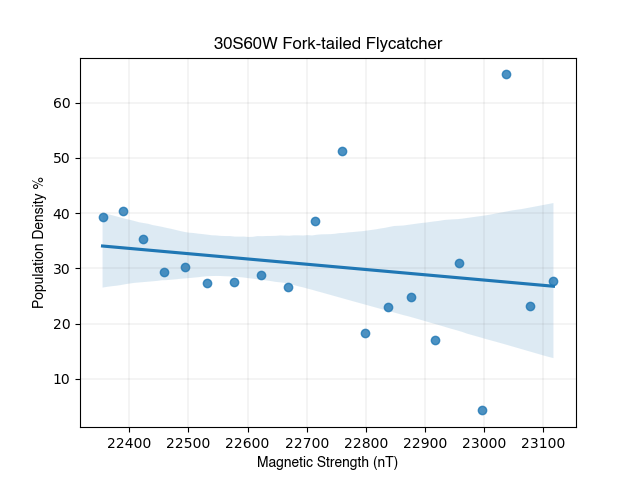
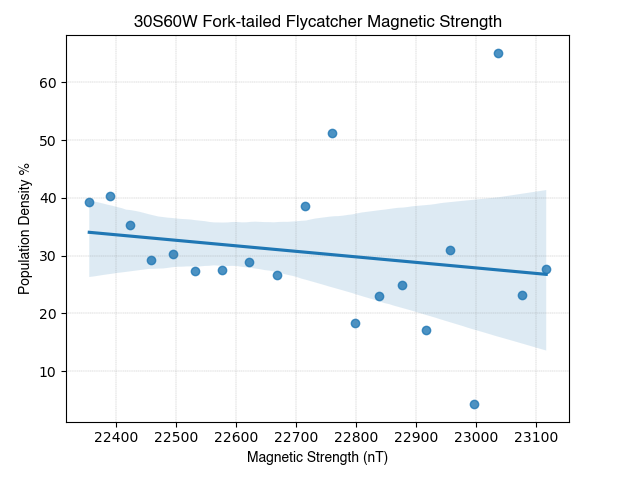
reVAMP INCOMING - DOUBLEYAXISPLOTS
COMPLETE DESIGN OF DOUBLE Y AXIS PLOTS. SWITCHING FROM PYGMT TO GRAPH TO MATPLOTLIB AS THE GRAPHS GENERALLY LOOK NICER AND JUST MAKE THAT MUCH OF A DIFFERENCE. MORE UPDATES ARE COMING - ADDITIONAL DATA ANALYSIS WAS COMPLETED IN RESPECTS TO ANALYSIS OF ONE STATION'S DATA COMPARED TO MIGRATORY DATA IN ADDITION TO THE GRAPHING OF POPULATION DENSITIES AT A MONTH TO MONTH BASIS. MORE COMING SOON.

diff --git a/sorting.py b/sorting.py
@@ -52,6 +52,36 @@ print(yearlyPrcps)
 
 
 
+def doubleYAxisPlotMaker(yearMin, yearMax, data1, data2, title, dataLabel1, dataLabel2, filename, color1, color2):
+    t = np.arange(yearMin,yearMax, 1)
+    fig, ax1 = plt.subplots()
+
+    ax1.set_xlabel('Year')
+    ax1.set_ylabel(dataLabel1, color = color1)
+    #5R Analysis of American Golden-Plover 30S60W from 2000-2020
+    ax1.set_title(title)
+    ln1 = ax1.plot(t, data1, color= color1, label = dataLabel1)
+    ax1.tick_params(axis='y', labelcolor = color1)
+    ax1.grid(color = 'grey', linestyle = "--")
+    # ax1.legend(loc="upper right")
+
+    ax2 = ax1.twinx()  # instantiate a second axes that shares the same x-axis
+
+    ax2.set_ylabel(dataLabel2, color = color2)  # we already handled the x-label with ax1
+    ln2 = ax2.plot(t, data2, color = color2, label = dataLabel2)
+    ax2.tick_params(axis='y', labelcolor = color2)
+    # ax2.legend(loc="upper right", bbox_to_anchor=(1, 0.90))
+
+    #GOD TIER LEGEND HELPER GOD BLESS
+    lns = ln1+ln2
+    labs = [l.get_label() for l in lns]
+    ax1.legend(lns, labs, loc="upper right")
+
+    fig.tight_layout()  # otherwise the right y-label is slightly clipped
+    fig.savefig(filename)
+    print(filename + " successfully uploaded.")
+
+
 # climateDataGen = climateDataGen.loc['STATION', 'LATITUDE', 'LONGITUDE', 'DATE', 'PRCP', 'TAVG', 'TMAX', 'TMIN']
 # climateDataGen = climateDataGen.query('STATION == PA000086086 & TMIN != null & TMAX != null')
 
@@ -179,15 +209,15 @@ print(matplotlib.get_cachedir())
 
 #correlation tests
 #these are the dataframes needed for the all birds correlation
-def scatterPlot(mag, per, title, file):
+def scatterPlot(mag, per, title, file, xlabel):
     font = {'fontname':'Helvetica', 'style':'italic'}
     plt.clf()
     sb.regplot(mag, per, 'o')
     plt.title(title, **font)
-    plt.xlabel("Magnetic Strength (nT)", **font)
+    plt.xlabel(xlabel, **font)
     plt.ylabel("Population Density %", **font)
-    plt.grid(color='grey', linestyle='-', linewidth=0.25, alpha=0.5)
-    plt.text(0.1, 0.9, 'text', size=15, color='purple')
+    plt.grid(color='grey', linestyle = "--", linewidth=0.25, alpha=0.75)
+    #plt.text(0.1, 0.9, 'text', size=15, color='purple')
     # m, b = np.polyfit(mag, per, 1)
     # plt.plot(mag, m(mag) + b)
 
@@ -248,16 +278,26 @@ smallCountHPercentages = (smallCountH['countS'].copy() / largeCountH['countS'].c
 allBirdPercentages = smallCountPercentages.multiply(0.25) + smallCountWPercentages.multiply(0.25) + smallCountPPercentages.multiply(0.25) + smallCountHPercentages.multiply(0.25)
 
 print("> Magnetic 30S60W All Birds: " + "r value = " + str(stats.pearsonr(magStrength3060S,allBirdPercentages)[0]) + "; p value = " + str(stats.pearsonr(magStrength3060S, allBirdPercentages)[1]))
-print("> Climate 30S60W All Birds: " + "r value = " + str(stats.pearsonr(climate3060S,allBirdPercentages)[0]) + "; p value = " + str(stats.pearsonr(climate3060S, allBirdPercentages)[1]))
+print("> Temperature 30S60W All Birds: " + "r value = " + str(stats.pearsonr(climate3060S,allBirdPercentages)[0]) + "; p value = " + str(stats.pearsonr(climate3060S, allBirdPercentages)[1]))
 print("> Precipitation 30S60W All Birds: " + "r value = " + str(stats.pearsonr(prcp3060S,allBirdPercentages)[0]) + "; p value = " + str(stats.pearsonr(prcp3060S, allBirdPercentages)[1]))
 
 # fvalue, pvalue = stats.f_oneway(climate3060S, prcp3060S, allBirdPercentages)
 # fvalue2, pvalue2 = stats.f_oneway(magStrength3060S, allBirdPercentages)
+l1 = [1,2,4,8,16,32,64]
+l2 = [1000,2000,4000,8000,16000,32000,64000]
+f, p = stats.f_oneway(l1,l2)
+print(str(f) + " and " + str(p))
 
 # print(str(fvalue) + " and " + str(pvalue))
 # print(str(fvalue2) + " and " + str(pvalue2))
 
-scatterPlot(magStrength3060S, allBirdPercentages, "30S60W All Birds", "30S60WAbBird.png")
+scatterPlot(magStrength3060S, allBirdPercentages, "30S60W All Birds Magnetic Strength", "30S60WAbBird.png", "Magnetic Strength (nT)")
+doubleYAxisPlotMaker(2000,2020, magStrength3060S, allBirdPercentages, "5R Analysis of All Birds 30S60W from 2000-2020(M)", "Magnetic Strength (nT)", "Population Density %", "DOUBLEAXIS_AbBird30S60W_M.png", "tab:red", "tab:blue")
+#(yearMin, yearMax, data1, data2, title, dataLabel1, dataLabel2, filename, color1, color2):
+#5R Analysis of American Golden-Plover 30S60W from 2000-2020
+
+
+
 # a, b = np.polyfit(magStrength3060S, allBirdPercentages, deg = 1)
 # aBest = a * magStrength3060S + allBirdPercentages
 # aBerr = magStrength3060S.std() * np.sqrt(1/len(magStrength3060S) + (magStrength3060S - magStrength3060S.mean())**2 / np.sum((magStrength3060S - magStrength3060S.mean())**2))
@@ -274,11 +314,17 @@ percentagesPlover3060S = []
 for x in range(len(ploverSmallList3060S)):
     percentagesPlover3060S.append((ploverSmallList3060S[x]/ploverLargeList3060S[x]) * 100)
 print("> Magnetic 30S60W American Golden-Plover: " + "r value = " + str(stats.pearsonr(magStrength3060S,percentagesPlover3060S)[0]) + "; p value = " + str(stats.pearsonr(magStrength3060S, percentagesPlover3060S)[1]))
-print("> Climate 30S60W American Golden-Plover: " + "r value = " + str(stats.pearsonr(climate3060S,percentagesPlover3060S)[0]) + "; p value = " + str(stats.pearsonr(climate3060S, percentagesPlover3060S)[1]))
+print("> Temperature 30S60W American Golden-Plover: " + "r value = " + str(stats.pearsonr(climate3060S,percentagesPlover3060S)[0]) + "; p value = " + str(stats.pearsonr(climate3060S, percentagesPlover3060S)[1]))
+print("> Precipitation 30S60W American Golden-Plover: " + "r value = " + str(stats.pearsonr(prcp3060S,percentagesPlover3060S)[0]) + "; p value = " + str(stats.pearsonr(prcp3060S, percentagesPlover3060S)[1]))
 
+scatterPlot(climate3060S, percentagesPlover3060S, "30S60W American Golden-Plover Temperature", "30S60WAgBird_T.png", "Temperature (F)")
+doubleYAxisPlotMaker(2000,2020, climate3060S, percentagesPlover3060S, "5R Analysis of American Golden-Plover 30S60W from 2000-2020(T)", "Temperature (F)", "Population Density %", "DOUBLEAXIS_AgBird30S60W_T.png", "tab:red", "tab:blue")
 
-#scatterPlot(climate3060S, percentagesPlover3060S, "30S60W American Golden-Plover", "CLM30S60WAgBird.png")
-scatterPlot(magStrength3060S, percentagesPlover3060S, "30S60W American Golden-Plover", "30S60WAgBird.png")
+scatterPlot(magStrength3060S, percentagesPlover3060S, "30S60W American Golden-Plover Magnetic Strength", "30S60WAgBird.png", "Magnetic Strength (nT)")
+doubleYAxisPlotMaker(2000,2020, magStrength3060S, percentagesPlover3060S, "5R Analysis of American Golden-Plover 30S60W from 2000-2020(M)", "Magnetic Strength (nT)", "Population Density %", "DOUBLEAXIS_AgBird30S60W_M.png", "tab:red", "tab:blue")
+
+scatterPlot(prcp3060S, percentagesPlover3060S, "30S60W American Golden-Plover Precipitation", "30S60WAgBird_P.png", "Precipitation (in)")
+doubleYAxisPlotMaker(2000,2020, prcp3060S, percentagesPlover3060S, "5R Analysis of American Golden-Plover 30S60W from 2000-2020(P)", "Precipitation (in)", "Population Density %", "DOUBLEAXIS_AgBird30S60W_P.png", "tab:red", "tab:blue")
 
 #White-rumped Sandpiper South America
 whiteSmallList3060S = smallCountW.copy()['countS'].values.tolist()
@@ -286,9 +332,18 @@ whiteLargeList3060S = largeCountW.copy()['countS'].values.tolist()
 percentagesWhite3060S = []
 for x in range(len(whiteSmallList3060S)):
     percentagesWhite3060S.append((whiteSmallList3060S[x]/whiteLargeList3060S[x]) * 100)
-print("> 30S60W White-rumped Sandpiper: " + "r value = " + str(stats.pearsonr(magStrength3060S,percentagesWhite3060S)[0]) + "; p value = " + str(stats.pearsonr(magStrength3060S, percentagesWhite3060S)[1]))
-print("> 30S60W White-rumped Sandpiper: " + "r value = " + str(stats.pearsonr(climate3060S,percentagesWhite3060S)[0]) + "; p value = " + str(stats.pearsonr(climate3060S, percentagesWhite3060S)[1]))
-scatterPlot(magStrength3060S, percentagesWhite3060S, "30S60W White-rumped Sandpiper", "30S60WWrBird.png")
+print("> Magnetic 30S60W White-rumped Sandpiper: " + "r value = " + str(stats.pearsonr(magStrength3060S,percentagesWhite3060S)[0]) + "; p value = " + str(stats.pearsonr(magStrength3060S, percentagesWhite3060S)[1]))
+print("> Temperature 30S60W White-rumped Sandpiper: " + "r value = " + str(stats.pearsonr(climate3060S,percentagesWhite3060S)[0]) + "; p value = " + str(stats.pearsonr(climate3060S, percentagesWhite3060S)[1]))
+print("> Precipitation 30S60W White-rumped Sandpiper: " + "r value = " + str(stats.pearsonr(prcp3060S,percentagesWhite3060S)[0]) + "; p value = " + str(stats.pearsonr(prcp3060S, percentagesWhite3060S)[1]))
+scatterPlot(magStrength3060S, percentagesWhite3060S, "30S60W White-rumped Sandpiper Magnetic Strength", "30S60WWrBird.png", "Magnetic Strength (nT)")
+doubleYAxisPlotMaker(2000,2020, magStrength3060S, percentagesWhite3060S, "5R Analysis of White-rumped Sandpiper 30S60W from 2000-2020(M)", "Magnetic Strength (nT)", "Population Density %", "DOUBLEAXIS_WrBird30S60W_M.png", "tab:red", "tab:blue")
+
+scatterPlot(climate3060S, percentagesWhite3060S, "30S60W White-rumped Sandpiper Temperature", "30S60WWrBird_T.png", "Temperature (F)")
+doubleYAxisPlotMaker(2000,2020, climate3060S, percentagesWhite3060S, "5R Analysis of White-rumped Sandpiper 30S60W from 2000-2020(T)", "Temperature (F)", "Population Density %", "DOUBLEAXIS_WrBird30S60W_T.png", "tab:red", "tab:blue")
+
+scatterPlot(prcp3060S, percentagesWhite3060S, "30S60W White-rumped Sandpiper Precipitation", "30S60WWrBird_P.png", "Precipitation (in)")
+doubleYAxisPlotMaker(2000,2020, prcp3060S, percentagesWhite3060S, "5R Analysis of White-rumped Sandpiper 30S60W from 2000-2020(P)", "Precipitation (in)", "Population Density %", "DOUBLEAXIS_WrBird30S60W_P.png", "tab:red", "tab:blue")
+
 
 #Pectoral Sandpiper South America
 pectoralSmallList3060S = smallCountP.copy()['countS'].values.tolist()
@@ -296,9 +351,20 @@ pectoralLargeList3060S = largeCountP.copy()['countS'].values.tolist()
 percentagesPectoral3060S = []
 for x in range(len(pectoralSmallList3060S)):
     percentagesPectoral3060S.append((pectoralSmallList3060S[x]/pectoralLargeList3060S[x]) * 100)
-print("> 30S60W Pectoral Sandpiper: " + "r value = " + str(stats.pearsonr(magStrength3060S,percentagesPectoral3060S)[0]) + "; p value = " + str(stats.pearsonr(magStrength3060S, percentagesPectoral3060S)[1]))
-print("> 30S60W Pectoral Sandpiper: " + "r value = " + str(stats.pearsonr(climate3060S,percentagesPectoral3060S)[0]) + "; p value = " + str(stats.pearsonr(climate3060S, percentagesPectoral3060S)[1]))
-scatterPlot(magStrength3060S, percentagesPectoral3060S, "30S60W Pectoral Sandpiper", "30S60WPsBird.png")
+print("> Magnetic 30S60W Pectoral Sandpiper: " + "r value = " + str(stats.pearsonr(magStrength3060S,percentagesPectoral3060S)[0]) + "; p value = " + str(stats.pearsonr(magStrength3060S, percentagesPectoral3060S)[1]))
+print("> Temperature 30S60W Pectoral Sandpiper: " + "r value = " + str(stats.pearsonr(climate3060S,percentagesPectoral3060S)[0]) + "; p value = " + str(stats.pearsonr(climate3060S, percentagesPectoral3060S)[1]))
+print("> Precipitation 30S60W Pectoral Sandpiper: " + "r value = " + str(stats.pearsonr(prcp3060S,percentagesPectoral3060S)[0]) + "; p value = " + str(stats.pearsonr(prcp3060S, percentagesPectoral3060S)[1]))
+
+scatterPlot(magStrength3060S, percentagesPectoral3060S, "30S60W Pectoral Sandpiper Magnetic Strength", "30S60WPsBird_M.png", "Magnetic Strength (nT)")
+doubleYAxisPlotMaker(2000,2020, magStrength3060S, percentagesPectoral3060S, "5R Analysis of Pectoral Sandpiper 30S60W from 2000-2020(M)", "Magnetic Strength (nT)", "Population Density %", "DOUBLEAXIS_PsBird30S60W_M.png", "tab:red", "tab:blue")
+
+scatterPlot(climate3060S, percentagesPectoral3060S, "30S60W Pectoral Sandpiper Temperature", "30S60WPsBird_T.png", "Temperature (F)")
+doubleYAxisPlotMaker(2000,2020, climate3060S, percentagesPectoral3060S, "5R Analysis of Pectoral Sandpiper 30S60W from 2000-2020(T)", "Temperature (F)", "Population Density %", "DOUBLEAXIS_PsBird30S60W_T.png", "tab:red", "tab:blue")
+
+scatterPlot(prcp3060S, percentagesPectoral3060S, "30S60W Pectoral Sandpiper Precipitation", "30S60WPsBird_P.png", "Precipitation (in)")
+doubleYAxisPlotMaker(2000,2020, prcp3060S, percentagesPectoral3060S, "5R Analysis of Pectoral Sandpiper 30S60W from 2000-2020(P)", "Precipitation (in)", "Population Density %", "DOUBLEAXIS_PsBird30S60W_P.png", "tab:red", "tab:blue")
+
+
 
 #Swainson's Hawk South America
 hawkSmallList3060S = smallCountH.copy()['countS'].values.tolist()
@@ -306,8 +372,20 @@ hawkLargeList3060S = largeCountH.copy()['countS'].values.tolist()
 percentagesHawk3060S = []
 for x in range(len(hawkSmallList3060S)):
     percentagesHawk3060S.append((hawkSmallList3060S[x]/hawkLargeList3060S[x]) * 100)
-print("> 30S60W Swainson's Hawk: " + "r value = " + str(stats.pearsonr(magStrength3060S,percentagesHawk3060S)[0]) + "; p value = " + str(stats.pearsonr(magStrength3060S, percentagesHawk3060S)[1]))
-scatterPlot(magStrength3060S, percentagesHawk3060S, "30S60W Swainson's Hawk", "30S60WShBird.png")
+print("> Magnetic 30S60W Swainson's Hawk: " + "r value = " + str(stats.pearsonr(magStrength3060S,percentagesHawk3060S)[0]) + "; p value = " + str(stats.pearsonr(magStrength3060S, percentagesHawk3060S)[1]))
+print("> Temperature 30S60W Swainson's Hawk: " + "r value = " + str(stats.pearsonr(climate3060S,percentagesHawk3060S)[0]) + "; p value = " + str(stats.pearsonr(climate3060S, percentagesHawk3060S)[1]))
+print("> Precipitation 30S60W Pectoral Sandpiper: " + "r value = " + str(stats.pearsonr(prcp3060S,percentagesHawk3060S)[0]) + "; p value = " + str(stats.pearsonr(prcp3060S, percentagesHawk3060S)[1]))
+
+scatterPlot(magStrength3060S, percentagesHawk3060S, "30S60W Swainson's Hawk Magnetic Strength", "30S60WShBird_M.png", "Magnetic Strength (nT)")
+doubleYAxisPlotMaker(2000,2020, magStrength3060S, percentagesHawk3060S, "5R Analysis of Swainson's Hawk 30S60W from 2000-2020(M)", "Magnetic Strength (nT)", "Population Density %", "DOUBLEAXIS_ShBird30S60W_M.png", "tab:red", "tab:blue")
+
+scatterPlot(climate3060S, percentagesHawk3060S, "30S60W Swainson's Hawk Temperature", "30S60WShBird_T.png", "Temperature (F)")
+doubleYAxisPlotMaker(2000,2020, climate3060S, percentagesHawk3060S, "5R Analysis of Swainson's Hawk 30S60W from 2000-2020(T)", "Temperature (F)", "Population Density %", "DOUBLEAXIS_ShBird30S60W_T.png", "tab:red", "tab:blue")
+
+scatterPlot(prcp3060S, percentagesHawk3060S, "30S60W Swainson's Hawk Precipitation", "30S60WShBird_P.png", "Precipitation (in)")
+doubleYAxisPlotMaker(2000,2020, prcp3060S, percentagesHawk3060S, "5R Analysis of Swainson's Hawk 30S60W from 2000-2020(P)", "Precipitation (in)", "Population Density %", "DOUBLEAXIS_ShBird30S60W_P.png", "tab:red", "tab:blue")
+
+
 
 #Fork-tailed Flycatcher South America
 forkSmallList3060S = smallCountF.copy()['countS'].values.tolist()
@@ -316,7 +394,10 @@ percentagesFork3060S = []
 for x in range(len(forkSmallList3060S)):
     percentagesFork3060S.append((forkSmallList3060S[x]/forkLargeList3060S[x]) * 100)
 print("> 30S60W Fork-tailed Flycatcher: " + "r value = " + str(stats.pearsonr(magStrength3060S,percentagesFork3060S)[0]) + "; p value = " + str(stats.pearsonr(magStrength3060S, percentagesFork3060S)[1]))
-scatterPlot(magStrength3060S, percentagesFork3060S, "30S60W Fork-tailed Flycatcher", "30S60WFtBird.png")
+print("> 30S60W Fork-tailed Flycatcher: " + "r value = " + str(stats.pearsonr(climate3060S,percentagesFork3060S)[0]) + "; p value = " + str(stats.pearsonr(climate3060S, percentagesFork3060S)[1]))
+scatterPlot(magStrength3060S, percentagesFork3060S, "30S60W Fork-tailed Flycatcher Magnetic Strength", "30S60WFtBird.png", "Magnetic Strength (nT)")
+doubleYAxisPlotMaker(2000,2020, magStrength3060S, percentagesPectoral3060S, "5R Analysis of Fork-tailed Flycatcher 30S60W from 2000-2020(M)", "Magnetic Strength (nT)", "Population Density %", "DOUBLEAXIS_FtBird30S60W_M.png", "tab:red", "tab:blue")
+
 
 #<--------------------------------------WIP RN-------------------------------------------->
 # toto = magData3060.copy().query('year >= 2005 & year < 2020')
@@ -329,7 +410,8 @@ percentagesScream3060S = []
 for x in range(len(screamSmallList3060S)):
     percentagesScream3060S.append((screamSmallList3060S[x]/screamLargeList3060S[x]) * 100)
 print("> 30S60W Southern Screamer: " + "r value = " + str(stats.pearsonr(magStrength3060S,percentagesScream3060S)[0]) + "; p value = " + str(stats.pearsonr(magStrength3060S, percentagesScream3060S)[1]))
-scatterPlot(magStrength3060S, percentagesScream3060S, "30S60W Southern Screamer", "30S60WSsBird.png")
+scatterPlot(magStrength3060S, percentagesScream3060S, "30S60W Southern Screamer Magnetic Strength", "30S60WSsBird.png", "Magnetic Strength (nT)")
+
 
 #American Golden-Plover Correlation North America
 NAPloverSmallList3060S = smallCountNAPlover.copy()['countS'].values.tolist()
@@ -338,7 +420,7 @@ percentagesNAPlover30N90W = []
 for x in range(len(NAPloverSmallList3060S)):
     percentagesNAPlover30N90W.append((NAPloverSmallList3060S[x]/NAPloverLargeList3060S[x]) * 100)
 print("> 30N90W American Golden-Plover: " + "r value = " + str(stats.pearsonr(magStrength30N90W,percentagesNAPlover30N90W)[0]) + "; p value = " + str(stats.pearsonr(magStrength30N90W, percentagesNAPlover30N90W)[1]))
-scatterPlot(magStrength30N90W, percentagesNAPlover30N90W, "30N90W American Golden-Plover", "30N90WAgBird.png")
+scatterPlot(magStrength30N90W, percentagesNAPlover30N90W, "30N90W American Golden-Plover Magnetic Strength", "30N90WAgBird.png", "Magnetic Strength (nT)")
 
 #White-rumped Sandpiper Correlation North America
 NAWhiteSmallList3060S = smallCountNARump.copy()['countS'].values.tolist()
@@ -347,7 +429,7 @@ percentagesNAWhite30N90W = []
 for x in range(len(NAWhiteSmallList3060S)):
     percentagesNAWhite30N90W.append((NAWhiteSmallList3060S[x]/NAWhiteLargeList3060S[x]) * 100)
 print("> 30N90W White-rumped Sandpiper: " + "r value = " + str(stats.pearsonr(magStrength30N90W,percentagesNAWhite30N90W)[0]) + "; p value = " + str(stats.pearsonr(magStrength30N90W, percentagesNAWhite30N90W)[1]))
-scatterPlot(magStrength30N90W, percentagesNAWhite30N90W, "30N90W White-rumped Sandpiper", "30N90WWrBird.png")
+scatterPlot(magStrength30N90W, percentagesNAWhite30N90W, "30N90W White-rumped Sandpiper Magnetic Strength", "30N90WWrBird.png", "Magnetic Strength (nT)")
 
 #Pectoral Sandpiper Correlation North America
 NAPiperSmallList3060S = smallCountNAPiper.copy()['countS'].values.tolist()
@@ -356,7 +438,7 @@ percentagesNAPiper30N90W = []
 for x in range(len(NAPiperSmallList3060S)):
     percentagesNAPiper30N90W.append((NAPiperSmallList3060S[x]/NAPiperLargeList3060S[x]) * 100)
 print("> 30N90W Pectoral Sandpiper: " + "r value = " + str(stats.pearsonr(magStrength30N90W,percentagesNAPiper30N90W)[0]) + "; p value = " + str(stats.pearsonr(magStrength30N90W, percentagesNAPiper30N90W)[1]))
-scatterPlot(magStrength30N90W, percentagesNAPiper30N90W, "30N90W Pectoral Sandpiper", "30N90WPsBird.png")
+scatterPlot(magStrength30N90W, percentagesNAPiper30N90W, "30N90W Pectoral Sandpiper Magnetic Strength", "30N90WPsBird.png", "Magnetic Strength (nT)")
 
 #Swainson's Hawk Correlation North America
 NAHawkSmallList3060S = smallCountNAHawk.copy()['countS'].values.tolist()
@@ -365,7 +447,7 @@ percentagesNAHawk30N90W = []
 for x in range(len(NAHawkSmallList3060S)):
     percentagesNAHawk30N90W.append((NAHawkSmallList3060S[x]/NAHawkLargeList3060S[x]) * 100)
 print("> 30N90W Swainson's Hawk: " + "r value = " + str(stats.pearsonr(magStrength30N90W,percentagesNAHawk30N90W)[0]) + "; p value = " + str(stats.pearsonr(magStrength30N90W, percentagesNAHawk30N90W)[1]))
-scatterPlot(magStrength30N90W, percentagesNAHawk30N90W, "30N90W Swainson's Hawk", "30N90WShBird.png")
+scatterPlot(magStrength30N90W, percentagesNAHawk30N90W, "30N90W Swainson's Hawk Magnetic Strength", "30N90WShBird.png", "Magnetic Strength (nT)")
 
 print("|------------------------------------------------------------------------|")#section end
 
@@ -433,12 +515,12 @@ QQsmallCountP = yearCount(QQsmallCountP, specificPiper2, 2000, 2020)
 QQlargeCountP = yearCount(QQlargeCountP, southAmericanPiper, 2000, 2020)
 
 QQsmallCountH = yearCount(QQsmallCountH, specificHawk2, 2000, 2020)
-QQlargeCountH =yearCount(QQlargeCountH, southAmericanHawk, 2000, 2020)
+QQlargeCountH = yearCount(QQlargeCountH, southAmericanHawk, 2000, 2020)
 
 QQsmallCountW = yearCount(QQsmallCountW, specificRump2, 2000, 2020)
 QQlargeCountW = yearCount(QQlargeCountW, southAmericanRump, 2000, 2020)
 
-
+#new double y axis plot tester
 t = np.arange(2000,2020, 1)
 data1 = magStrength3060S
 data2 = percentagesPlover3060S
@@ -449,19 +531,26 @@ color = 'tab:red'
 ax1.set_xlabel('Year')
 ax1.set_ylabel('Magnetic Strength (nT)', color=color)
 ax1.set_title('5R Analysis of American Golden-Plover 30S60W from 2000-2020')
-ax1.plot(t, data1, color=color)
+ln1 = ax1.plot(t, data1, color=color, label = "Annual Magnetic Strength (nT)")
 ax1.tick_params(axis='y', labelcolor=color)
+ax1.grid(color = 'grey', linestyle = "--")
+# ax1.legend(loc="upper right")
 
 ax2 = ax1.twinx()  # instantiate a second axes that shares the same x-axis
 
 color = 'tab:blue'
 ax2.set_ylabel('Population Density (%)', color=color)  # we already handled the x-label with ax1
-ax2.plot(t, data2, color=color)
+ln2 = ax2.plot(t, data2, color=color, label = "Annual AgBird Population Density %")
 ax2.tick_params(axis='y', labelcolor=color)
+# ax2.legend(loc="upper right", bbox_to_anchor=(1, 0.90))
+
+#GOD TIER LEGEND HELPER GOD BLESS
+lns = ln1+ln2
+labs = [l.get_label() for l in lns]
+ax1.legend(lns, labs, loc="upper right")
 
 fig.tight_layout()  # otherwise the right y-label is slightly clipped
 fig.savefig("newDoubleY-axisPlot.png")
-
 
 
 
